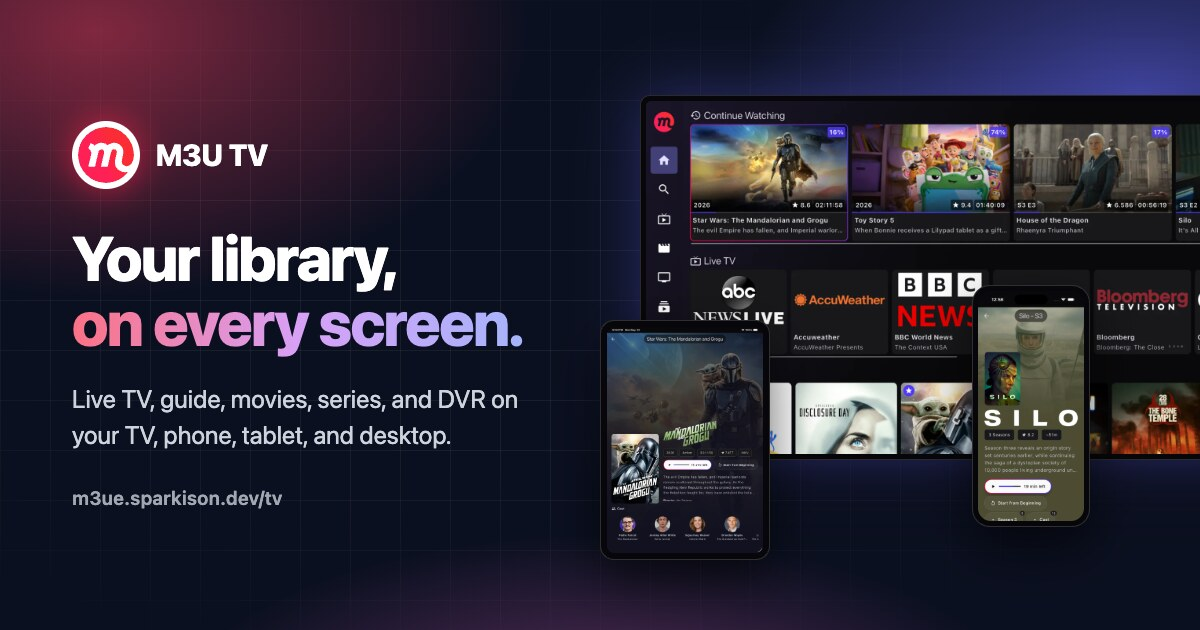
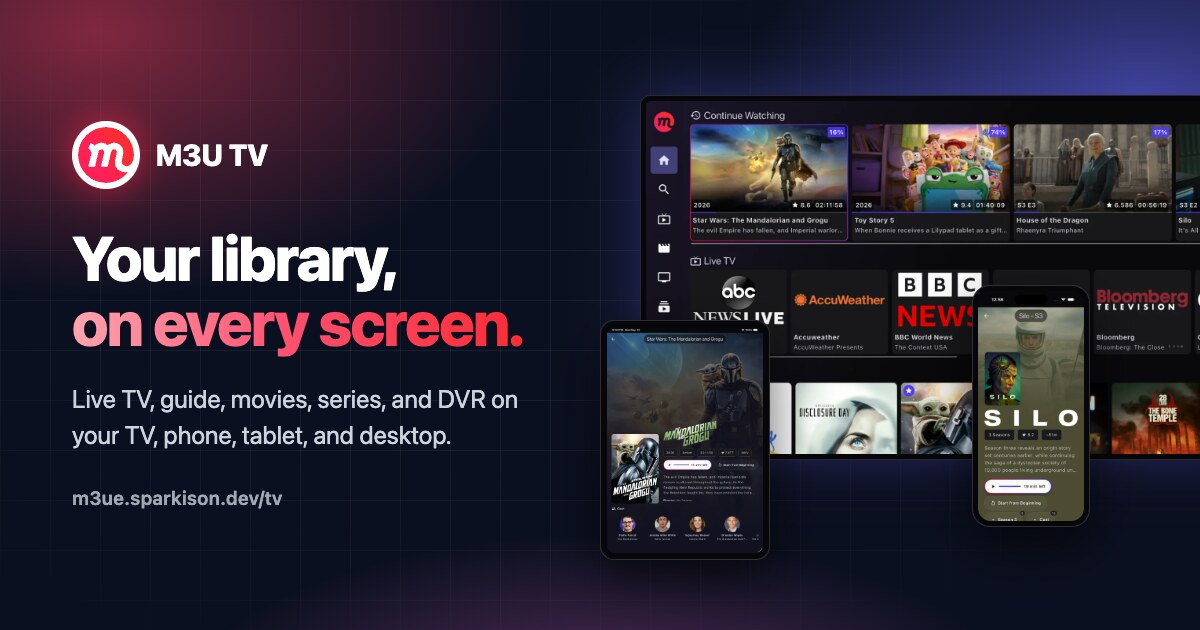
chore: Update TV page gradient to match the TV app colors

Changed region(s): [[0.0617, 0.4825, 0.4317, 0.573]]

diff --git a/src/pages/tv.js b/src/pages/tv.js
@@ -103,7 +103,7 @@ function Hero() {
           </div>
           <h1 className={home.heroTitle}>
             Your library,<br />
-            <span className={home.heroTitleAccent}>on every screen.</span>
+            <span className={clsx(home.heroTitleAccent, styles.tvAccent)}>on every screen.</span>
           </h1>
           <p className={home.heroSubtitle}>{DESCRIPTION}</p>
           <StoreBadges className={styles.heroBadges} />
@@ -207,7 +207,8 @@ function FeatureGrid() {
         subtitle="Built alongside M3U Editor, so it understands your guide, your library, your recordings, and your watch history."
       />
       <div className={home.featureGrid}>
-        {TV_FEATURES.map((feature) => {
+        {/* Features with a docs page lead, each group keeping its data order */}
+        {[...TV_FEATURES].sort((a, b) => Number(!a.link) - Number(!b.link)).map((feature) => {
           const content = (
             <>
               <span className={home.featureIcon}>

diff --git a/docusaurus.config.js b/docusaurus.config.js
@@ -167,15 +167,15 @@ const config = {
         },
         items: [
           {
+            to: '/tv',
+            label: 'M3U TV',
+            position: 'left',
+          },
+          {
             type: 'docSidebar',
             sidebarId: 'tutorialSidebar',
             position: 'left',
             label: 'Documentation',
-          },
-          {
-            to: '/tv',
-            label: 'M3U TV',
-            position: 'left',
           },
           {
             to: '/compose-wizard',

diff --git a/src/pages/tv.module.css b/src/pages/tv.module.css
@@ -689,3 +689,11 @@
 .tvLogo {
   box-shadow: 0 0 30px rgba(255, 32, 86, 0.45), 0 0 50px rgba(251, 44, 54, 0.3);
 }
+
+/* Headline accent in the M3U TV logo's reds rather than the editor's
+   pink-to-indigo, lightened at the start so it reads on the dark hero */
+.tvAccent {
+  background: linear-gradient(90deg, #fda4af 0%, #ff4d6d 50%, #fb2c36 100%);
+  -webkit-background-clip: text;
+  background-clip: text;
+}
